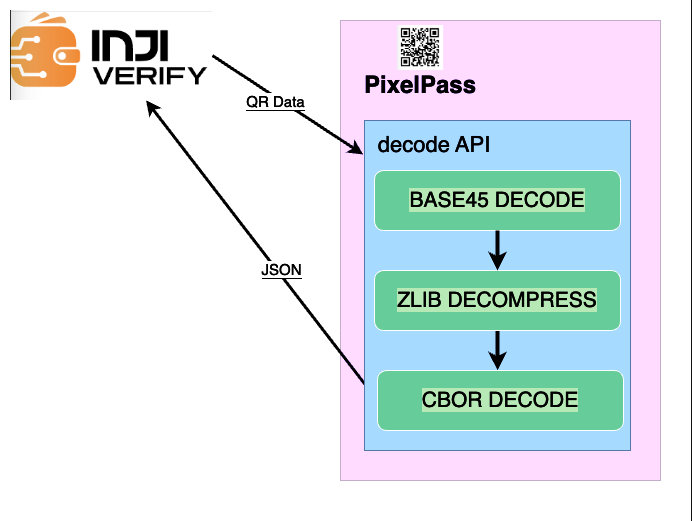
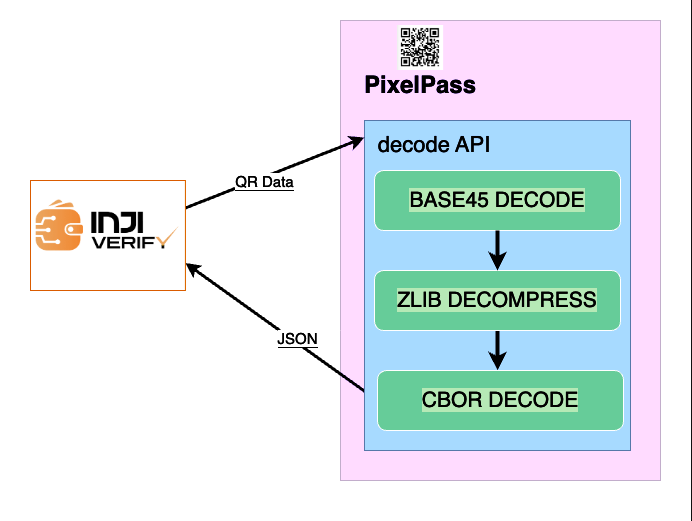
[INJIVER-718] - update diagrams

diff --git a/docs/inji-wallet/technical-overview/integration-guide/pixelpass.md b/docs/inji-wallet/technical-overview/integration-guide/pixelpass.md
@@ -45,7 +45,6 @@ PixelPass has NPM, Kotlin, Swift and Java artifacts available.
 Below are the APIs provided by the PixelPass library:
 
 ## APIs
-### To Generate QR Data:
 
 **generateQRCode( data, ecc , header )**
 
@@ -89,8 +88,6 @@ const encodedCBORData = generateQRData(jsonString, header);
 // header defaults to empty string if not passed.
 ```
 
-### To Decode QR Data:
-
 **decode( data )**
 
 The `decode` will take a `string`  as parameter and gives us decoded JSON string which is Base45 `Decoded > CBOR Decoded > Decompressed`.
@@ -116,8 +113,6 @@ import { decodeBinary } from '@mosip/pixelpass';
 const zipdata = <zip-byte-array>;
 const decompressedData = decodeBinary(zipdata);
 ```
-
-### To get Mapped CBOR data from JSON:
 
 **getMappedData( jsonData, mapper, cborEnable )**
 
@@ -183,7 +178,3 @@ The below diagram shows how Inji Wallet utilises PixelPass library.
 The below diagram shows how Inji Verify utilises PixelPass library.
 
 <figure><img src="../../../.gitbook/assets/verify-decode.png" alt=""><figcaption></figcaption></figure>
-
-\
-\
-\\
